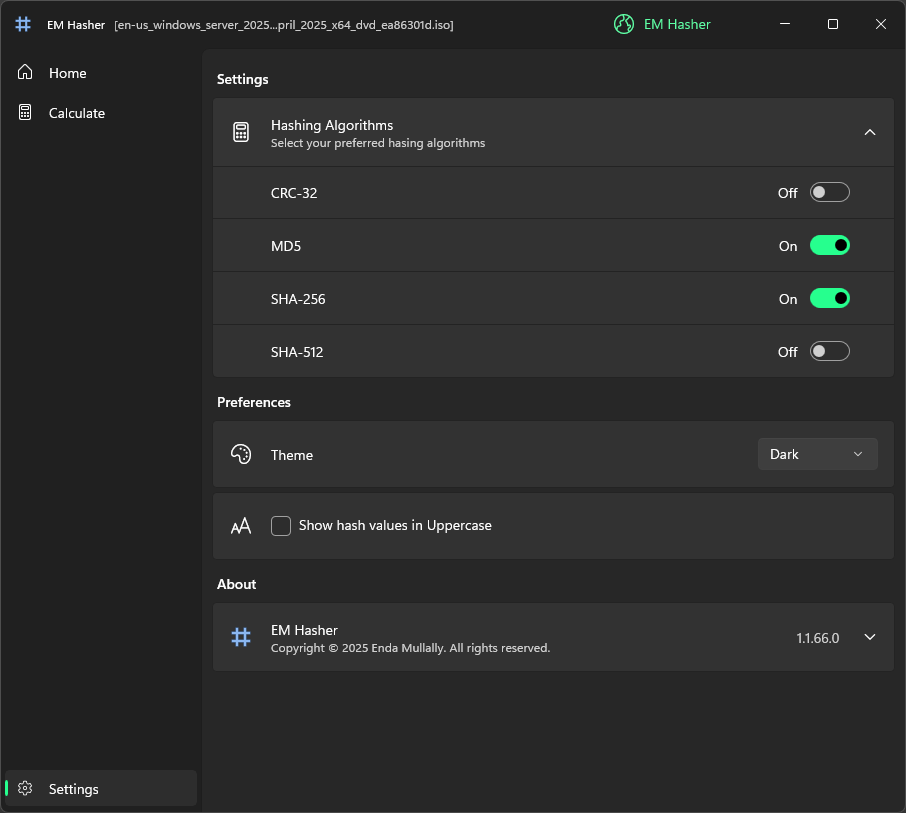
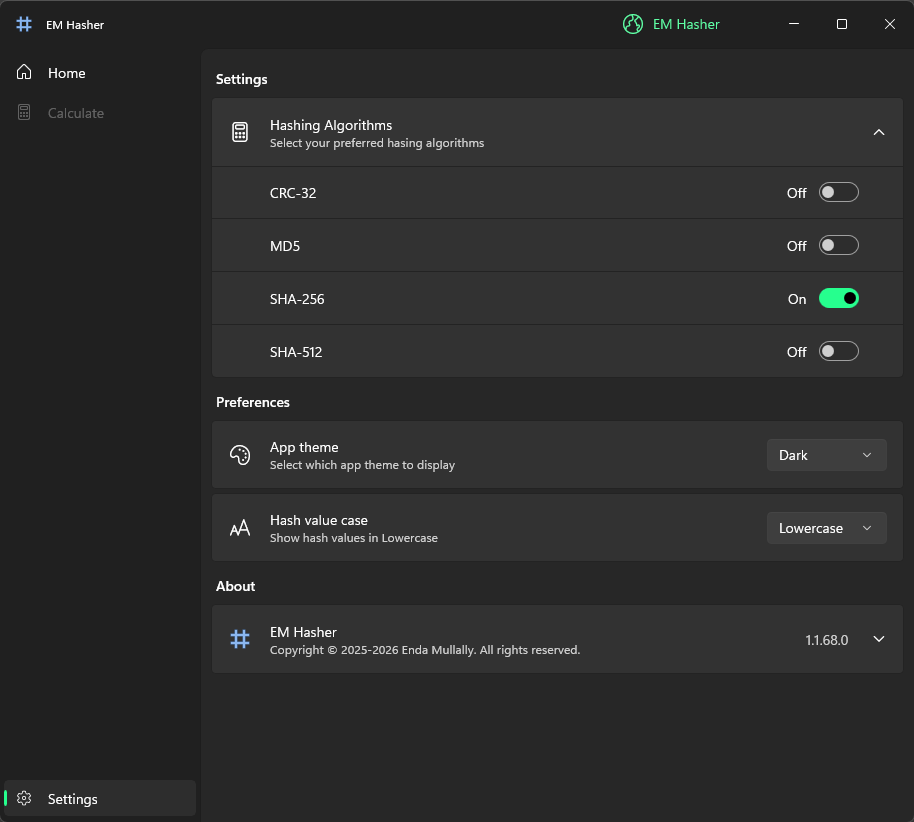
[v1.1.68] Version inc + Updated strore screenshots

diff --git a/src/EM.Hasher/Pages/Settings.xaml b/src/EM.Hasher/Pages/Settings.xaml
@@ -163,7 +163,7 @@
                 <!--  String resource key 'SettingsAboutAppDisplayName.Header' will map to Header below, very subtle  -->
                 <controls:SettingsExpander
                     x:Uid="SettingsAboutAppDisplayName"
-                    Description="{x:Bind sys:String.Format('Copyright © 2025 Enda Mullally. All rights reserved.{0}', ViewModel.TrialLicenseDescription), Mode=OneWay}"
+                    Description="{x:Bind sys:String.Format('Copyright © 2025-2026 Enda Mullally. All rights reserved.{0}', ViewModel.TrialLicenseDescription), Mode=OneWay}"
                     HeaderIcon="{ui:BitmapIcon Source=ms-appx:///Assets/EMHasher40x40.png}"
                     IsExpanded="False">
                     <TextBlock
